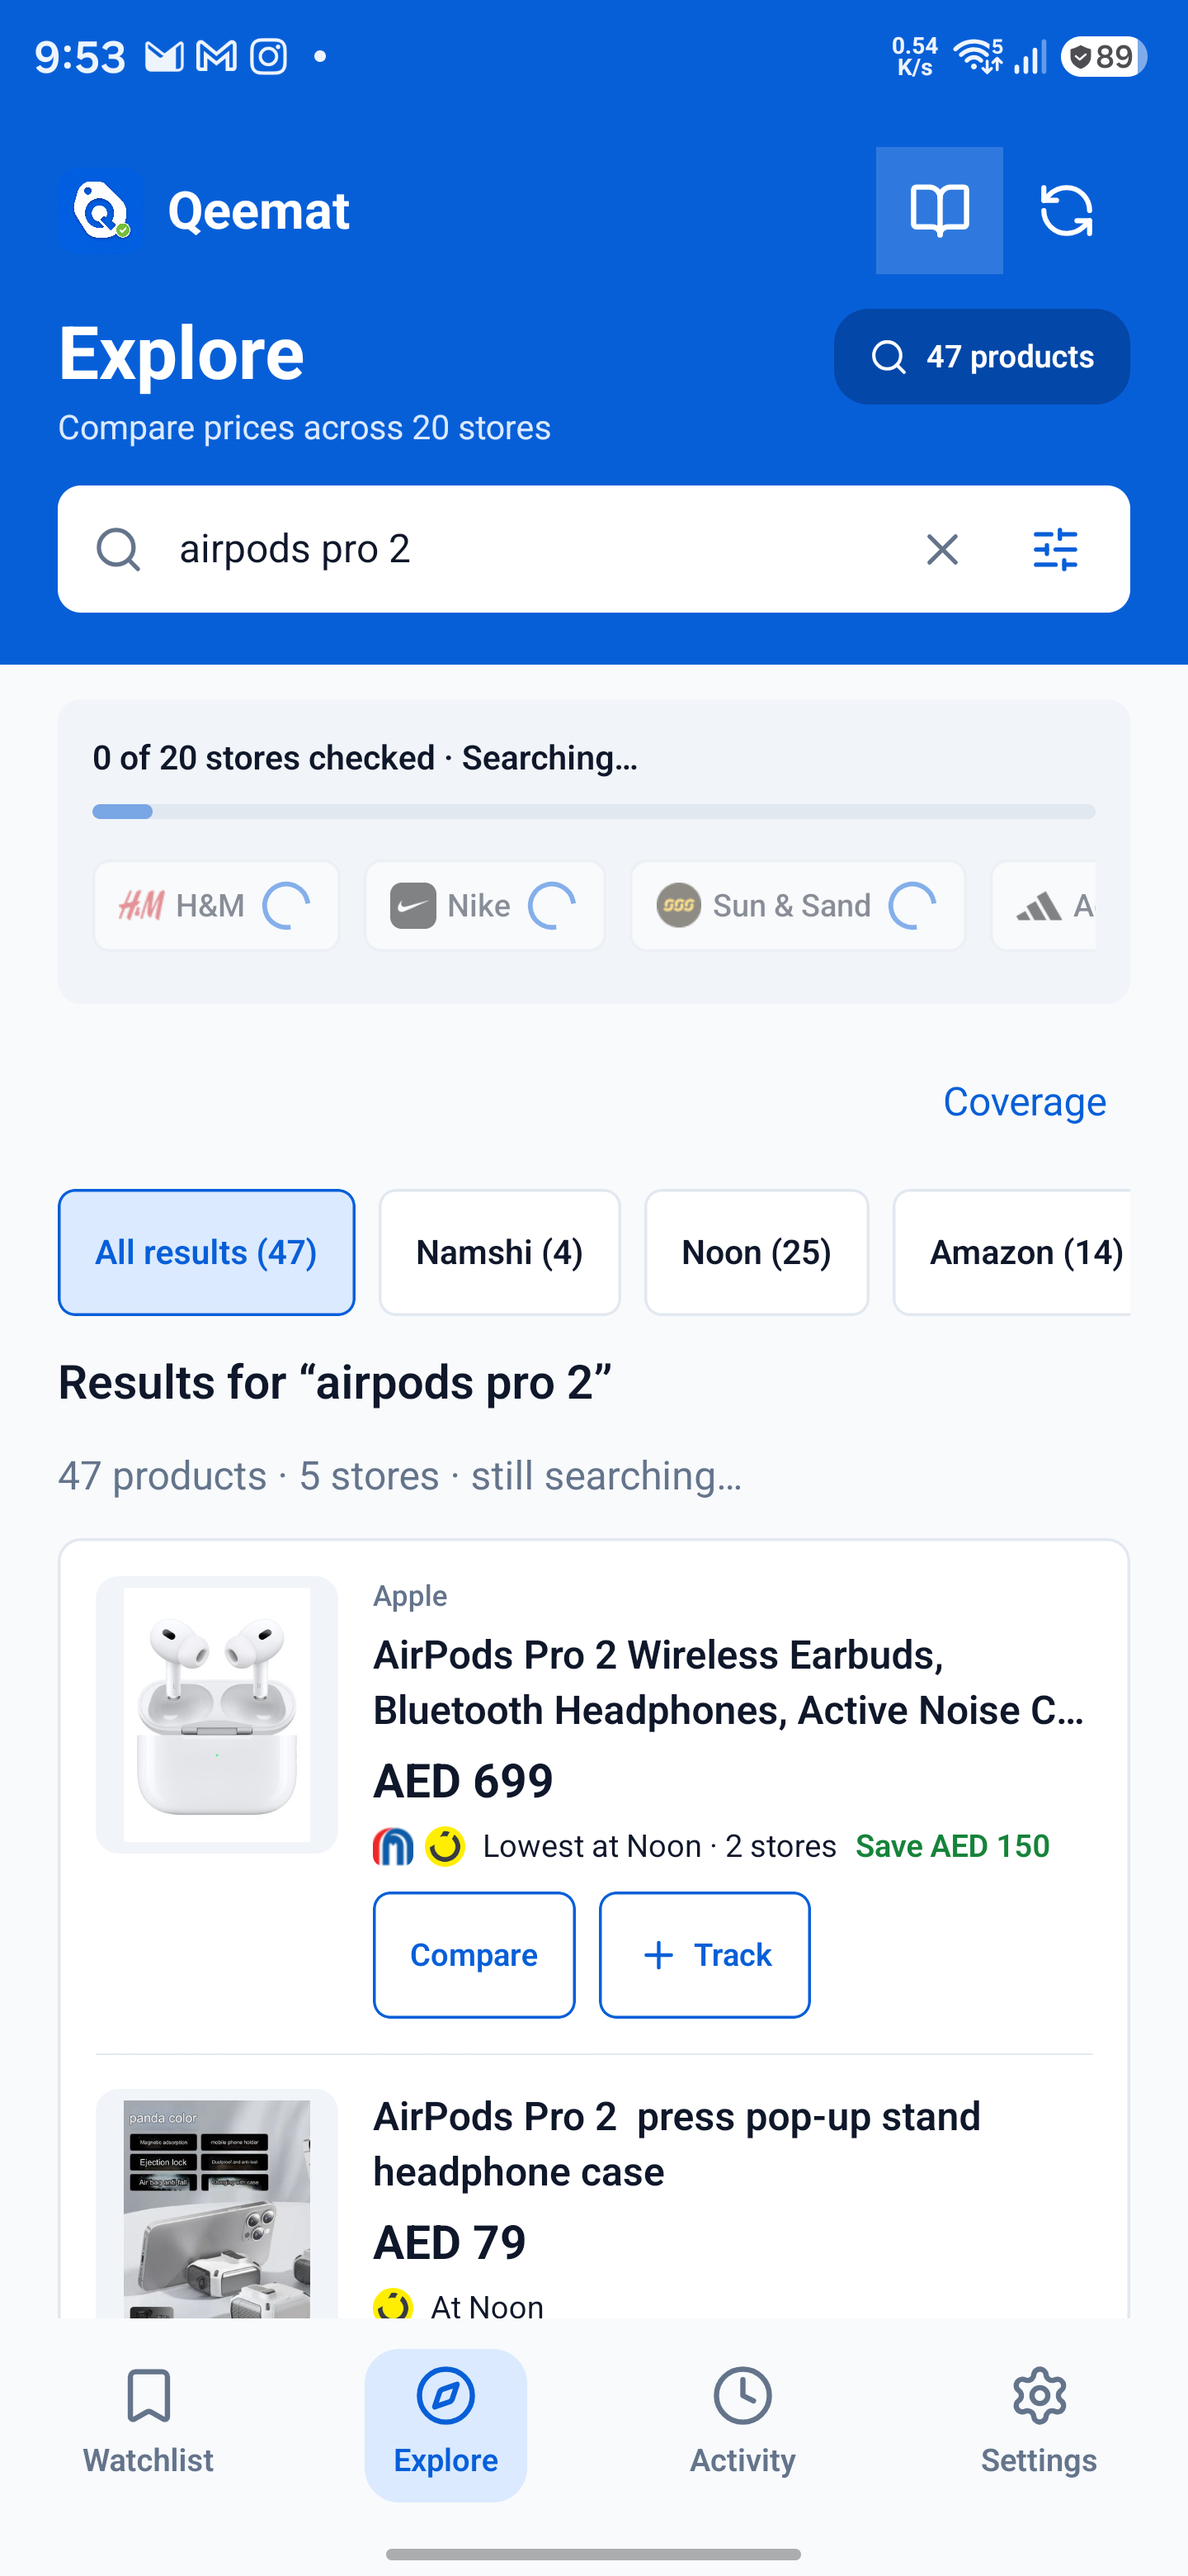
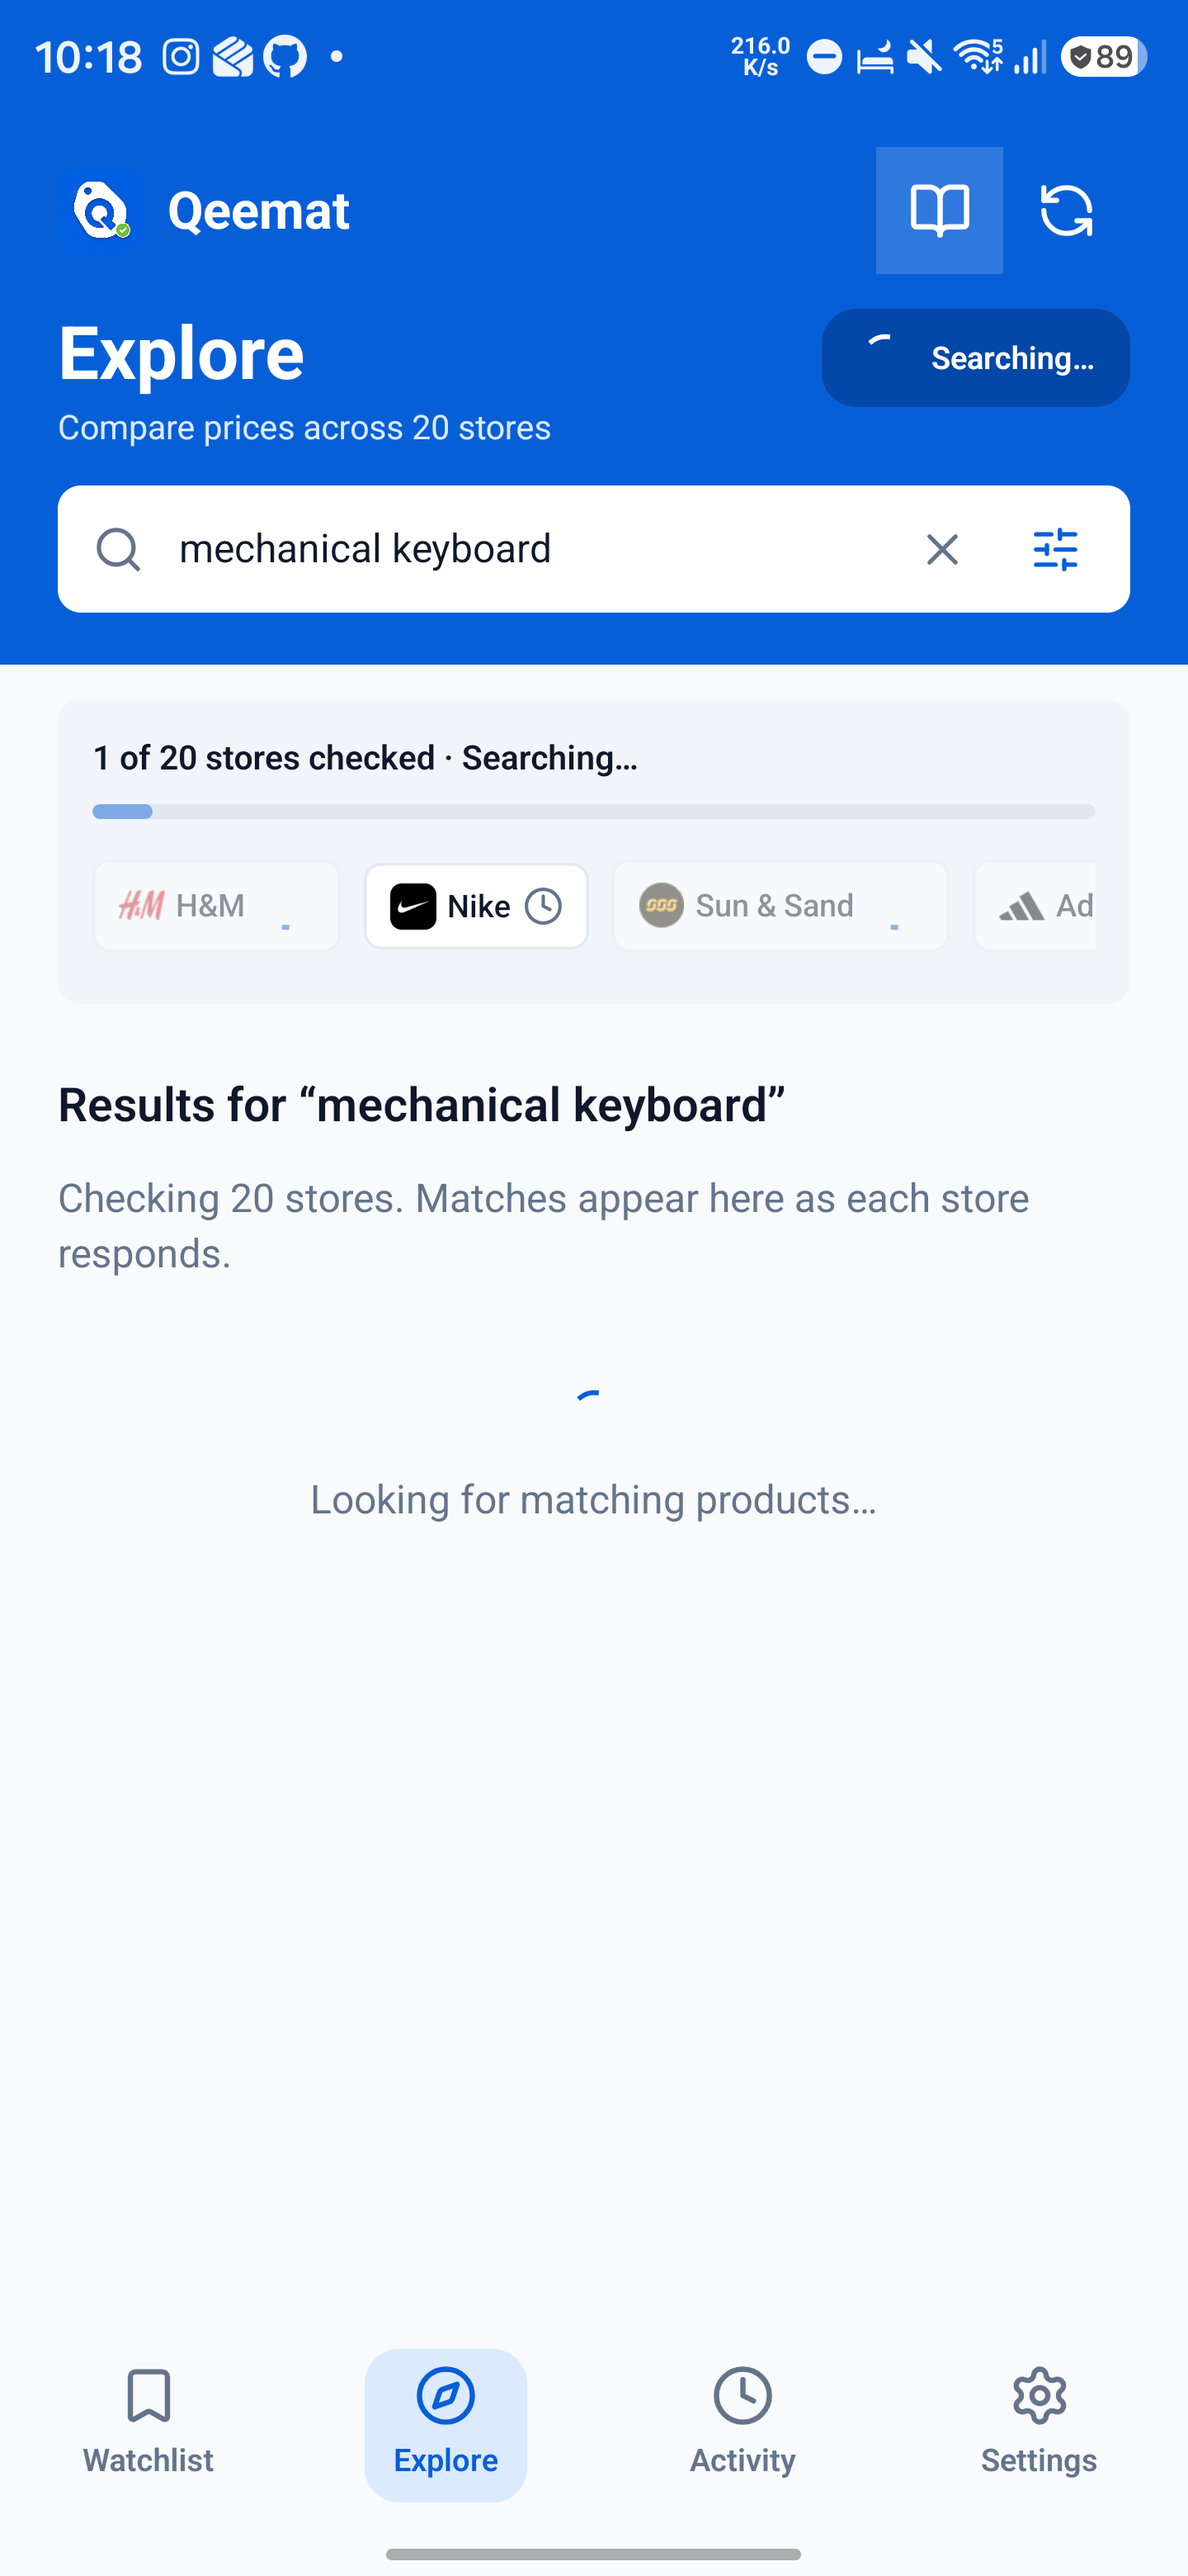
fix: remove the empty coverage row from search results

diff --git a/src/components/DiscoverySearch.tsx b/src/components/DiscoverySearch.tsx
@@ -36,15 +36,12 @@ export function DiscoverySearch({ query, result, groups, busy, retailer, onRetai
 
   return (
     <View style={styles.container}>
-      <View style={styles.statusRow}>
-        <View style={styles.flex} />
-        <Pressable accessibilityRole="button" accessibilityLabel="Search coverage" onPress={() => setShowCoverage(true)} style={styles.action}>
-          <AppText style={styles.link}>Coverage</AppText>
-        </Pressable>
-      </View>
       {groups.length || !busy ? (
         <ScrollView horizontal showsHorizontalScrollIndicator={false} contentContainerStyle={styles.rail}>
           <DiscoveryFilterChip label={`All results (${groups.length})`} selected={!retailer} onPress={() => onRetailer(undefined)} />
+          <Pressable accessibilityRole="button" accessibilityLabel="Search coverage" onPress={() => setShowCoverage(true)} style={styles.action}>
+            <AppText style={styles.link}>Coverage</AppText>
+          </Pressable>
           {STORES.filter((site) => counts.has(site)).map((site) => <DiscoveryFilterChip key={site} label={`${getSiteByKey(site).shortName} (${counts.get(site)})`} selected={retailer === site} onPress={() => onRetailer(site === retailer ? undefined : site)} />)}
         </ScrollView>
       ) : null}
@@ -69,7 +66,6 @@ export function DiscoverySearch({ query, result, groups, busy, retailer, onRetai
 const styles = StyleSheet.create({
   container: { gap: 8 },
   statusRow: { flexDirection: 'row', alignItems: 'center', gap: 8 },
-  flex: { flex: 1 },
   link: { color: colors.primary },
   rail: { gap: 8 },
   action: { minWidth: 44, minHeight: 44, alignItems: 'center', justifyContent: 'center', paddingHorizontal: 8 },

diff --git a/App.tsx b/App.tsx
@@ -2483,6 +2483,7 @@ export function OpportunityScreen({ navigate, active = true, sessionOffset }: { 
   const selectedVariant = pendingProduct?.parsed.variants?.find((variant) => variant.id === selectedChoice?.id);
   const feedTitle = category ? DISCOVERY_CATEGORY_LABELS[category] : selectedCollection ? `${getSiteByKey(selectedCollection.siteKey).shortName} · ${selectedCollection.label}` : browseAll ? 'All products' : 'For you';
   const feedLoading = loading || (catalogBusy && !displayGroups.length);
+  const searchIsStarting = Boolean(searchQuery) && searchBusy && displayGroups.length === 0;
   const feedCopy = feedLoading
     ? 'Loading products for this selection…'
     : category || browseAll || retailer || collectionId
@@ -2726,11 +2727,11 @@ export function OpportunityScreen({ navigate, active = true, sessionOffset }: { 
               <AppText style={styles.searchBannerSubtitle}>Compare prices across {SEARCH_STORE_COUNT} stores</AppText>
             </View>
             <View style={styles.watchlistBannerCount}>
-              {(searchQuery && searchBusy && !searchResult) || (!searchQuery && feedLoading)
+              {searchIsStarting || (!searchQuery && feedLoading)
                 ? <ActivityIndicator size="small" color={colors.surface} />
                 : <Search size={14} color={colors.surface} />}
               <AppText weight="semibold" style={styles.watchlistBannerCountText}>
-                {searchQuery && searchBusy && !searchResult
+                {searchIsStarting
                   ? 'Searching…'
                   : !searchQuery && feedLoading
                     ? 'Loading…'
